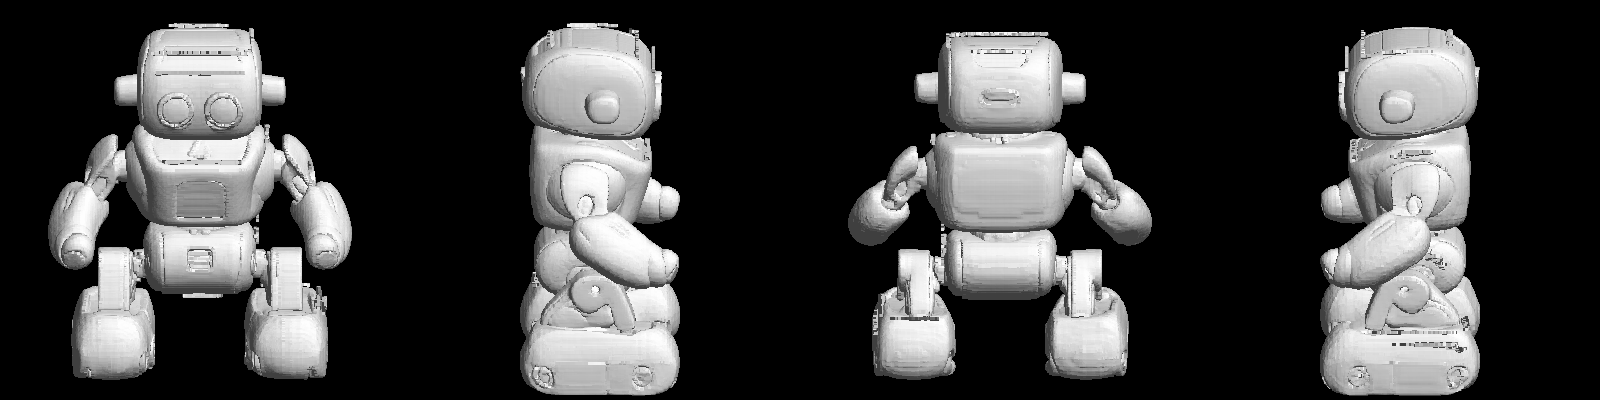
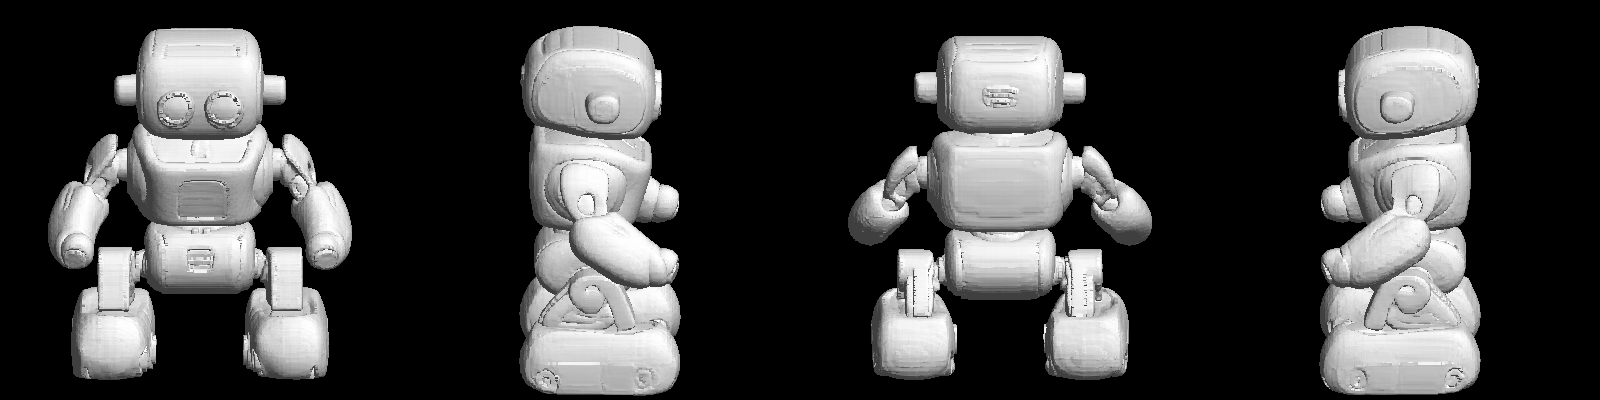
Drop paper-thin surface flakes by component thickness
Debris survived the size-based filter: flakes 11-29 % long but only
0.1-1.4 % thick, hovering ~1 % off the surface (dark speckles in
renders). Real detached parts (arms, panels) measure >= 11.8 % thick,
so a minimum bbox-extent test separates them with an order-of-magnitude
margin.

- drop_small_parts: new min_thick_ratio (HI3DGEN_DROP_THIN_PARTS,
  default 0.02, 0 disables)
- Verified in a full run: components 1072 -> 4 (body + both arms +
  panel), generation and post-processing time unchanged;
  tests/test_drop_parts.py 5/5
- assets/preview.png and assets/normal.png regenerated from the
  cleaned output

diff --git a/tests/test_drop_parts.py b/tests/test_drop_parts.py
@@ -1,0 +1,83 @@
+# SPDX-License-Identifier: MIT
+"""`drop_small_parts`（小ささ＋薄さ）の検算。
+
+合成メッシュで「本体・正当な部品・小さな破片・表面の薄片」を作り、
+**残るべきものが残り、消えるべきものが消える**ことを確かめる。
+
+実行はこの venv で（trimesh が要る）::
+
+    .venv\\Scripts\\python.exe .\\tests\\test_drop_parts.py
+"""
+
+from __future__ import annotations
+
+import sys
+from pathlib import Path
+
+import trimesh
+
+REPO_ROOT = Path(__file__).resolve().parent.parent
+sys.path.insert(0, str(REPO_ROOT))
+
+FAILURES: list[str] = []
+
+
+def check(name: str, ok: bool, detail: str = "") -> None:
+    mark = " OK " if ok else "FAIL"
+    print(f"  {mark}  {name}" + (f"  ({detail})" if detail and not ok else ""))
+    if not ok:
+        FAILURES.append(name)
+
+
+def build_specimen() -> tuple[trimesh.Trimesh, int]:
+    """本体＋部品＋破片＋薄片。返り値は (メッシュ, 残るべき面数)。"""
+    body = trimesh.creation.box(extents=(1.0, 1.0, 1.0))
+    # 正当な部品：大きさ 20%・厚み 20%（腕のつもり）
+    limb = trimesh.creation.box(extents=(0.2, 0.2, 0.2))
+    limb.apply_translation((0.8, 0.0, 0.0))
+    # 小さな破片：大きさ 5%（従来の基準で消える）
+    crumb = trimesh.creation.box(extents=(0.05, 0.05, 0.05))
+    crumb.apply_translation((0.0, 0.8, 0.0))
+    # 表面の薄片：長さ 30%・厚み 0.5%（従来の基準を素通りしていたゴミ）
+    flake = trimesh.creation.box(extents=(0.3, 0.3, 0.005))
+    flake.apply_translation((0.0, 0.0, 0.51))
+    mesh = trimesh.util.concatenate([body, limb, crumb, flake])
+    return mesh, len(body.faces) + len(limb.faces)
+
+
+def run(label: str, drop_small_parts) -> None:  # noqa: ANN001
+    mesh, want_faces = build_specimen()
+    out = drop_small_parts(mesh, min_ratio=0.10, min_thick_ratio=0.02)
+    parts = out.split(only_watertight=False)
+    check(f"{label}: 本体と部品の 2 成分が残る", len(parts) == 2, f"got {len(parts)}")
+    check(f"{label}: 面数が本体＋部品と一致する", len(out.faces) == want_faces)
+
+    # 薄さ判定を切れば薄片は残る（0 で無効の約束）
+    out2 = drop_small_parts(mesh, min_ratio=0.10, min_thick_ratio=0.0)
+    check(
+        f"{label}: min_thick_ratio=0 なら薄片は残る",
+        len(out2.split(only_watertight=False)) == 3,
+    )
+
+    # 両方 0 なら何もしない
+    out3 = drop_small_parts(mesh, min_ratio=0.0, min_thick_ratio=0.0)
+    check(f"{label}: 両方 0 なら何もしない", len(out3.faces) == len(mesh.faces))
+
+    # 本体が薄くても最大成分は必ず残る
+    thin_body = trimesh.creation.box(extents=(1.0, 1.0, 0.01))
+    out4 = drop_small_parts(thin_body.copy(), min_ratio=0.10, min_thick_ratio=0.02)
+    check(f"{label}: 最大成分は必ず残る", len(out4.faces) == len(thin_body.faces))
+
+
+def main() -> int:
+    from runners.hi3dgen import postprocess as hi3
+
+    run("hi3dgen", hi3.drop_small_parts)
+
+    total = 5
+    print(f"\n{total - len(FAILURES)}/{total} 成功")
+    return 1 if FAILURES else 0
+
+
+if __name__ == "__main__":
+    raise SystemExit(main())

diff --git a/runners/hi3dgen/config.py b/runners/hi3dgen/config.py
@@ -89,6 +89,12 @@ HEARTBEAT_SEC: float = _float("HI3DGEN_HEARTBEAT_SEC", 10.0)
 # 実測では 10% で腕と手（15%）は残り、目に見える破片（6.5% 以下）が消えた。
 DROP_SMALL_PARTS: float = _float("HI3DGEN_DROP_SMALL_PARTS", 0.10)
 
+# **これも上流に無い追加。** 外接箱の最短辺が全体の最長辺のこの比未満の分離成分
+# （＝紙のような薄片）を落とす。表面から約 1% 浮いた薄片は長さが 11〜29% あるので
+# DROP_SMALL_PARTS だけでは素通りする。実測：薄片は厚み 1.4% 以下・正当な部品は
+# 11.8% 以上（2026-09-02）。0 で無効。
+DROP_THIN_PARTS: float = _float("HI3DGEN_DROP_THIN_PARTS", 0.02)
+
 # 小さな穴を塞ぐときの境界ループの辺数の上限（0 で無効）。
 # Hi3DGen の出力は生成ボリュームの天面で切れていて watertight にならない。
 # 実測では最大のループが 128 頂点だったので、余裕をみて 250 にする。

diff --git a/README.md b/README.md
@@ -155,8 +155,12 @@ set **before** torch is imported. The runner sets it for you.
   upstream TRELLIS uses for the same purpose.
 - **Free-floating parts.** Measured on one sample, 941 of 968 stray parts were
   outside the body. Upstream has no post-processing at all, so the runner drops
-  parts below 10 % of the model's longest side and records how much it dropped.
-  Set `HI3DGEN_DROP_SMALL_PARTS=0` to disable.
+  detached parts that are **small** (below 10 % of the model's longest side,
+  `HI3DGEN_DROP_SMALL_PARTS`) or **paper-thin** (min bbox extent below 2 %,
+  `HI3DGEN_DROP_THIN_PARTS`) — the thin ones are surface-hugging flakes up to
+  29 % long that pass the size test but render as dark speckles. Measured
+  margins: flakes ≤ 1.4 % thick, real detached parts (arms, panels) ≥ 11.8 %.
+  How much was dropped is always recorded. Set either to 0 to disable.
 - Generation time on this hardware depends on the GPU power state (see the
   600 MHz section above). The keepalive pins the fast case, but do not use
   wall-clock time as a pass/fail signal.
